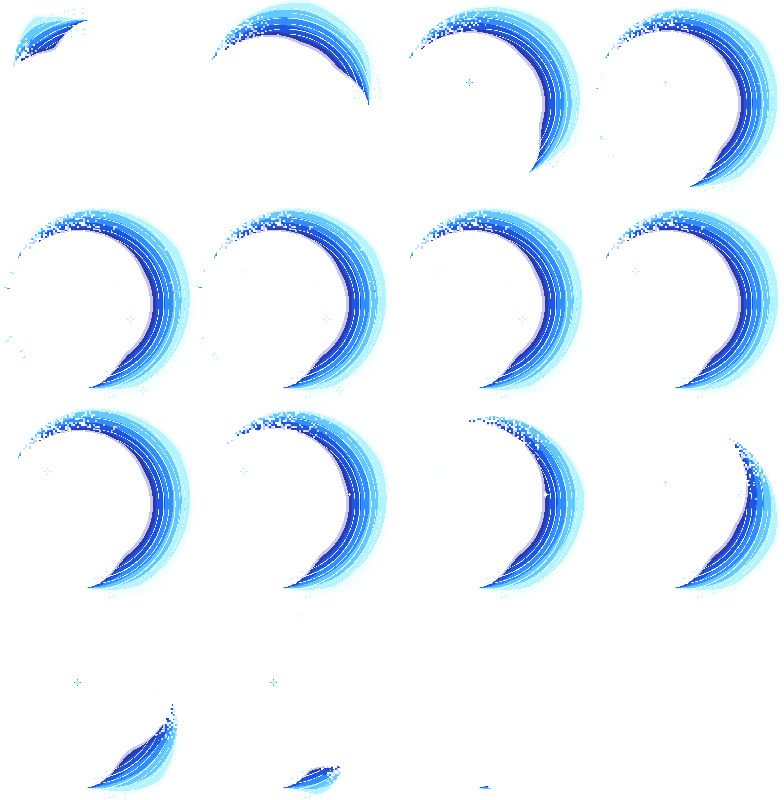
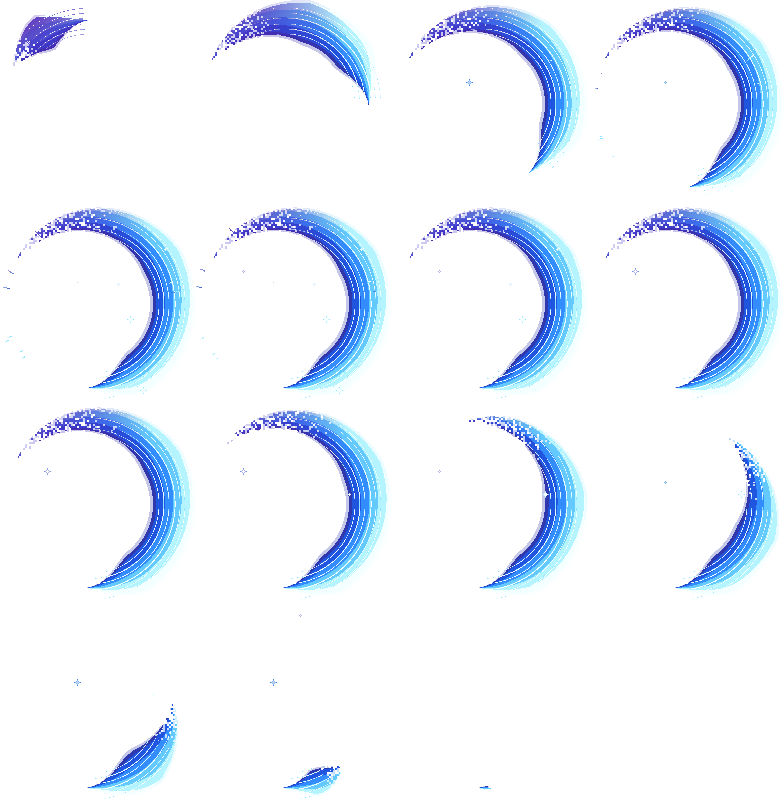
Đòn C: chỉ một vành PixelLab đuôi tím, bỏ lớp code chồng
Claude-Session: https://claude.ai/code/session_01MYwTvK6dULdzXHFPeBSgyd

diff --git a/game/index.html b/game/index.html
@@ -1880,7 +1880,7 @@ function comboFx(step,ang){/* VFX bản mẫu (PixelLab, gói tách lớp, tông
  /* Vệt chém: bộ Slashes (Frostwindz) đổi sang bảng màu game; khung lớn nhất của vệt trùng khung trúng */
  if(step===0)later(Math.max(0,at-0.02),()=>go(vok('wx_slash')?'wx_slash':'zs3',0.34,0,1.9,0.35,{dx:34*sc,dy:-62*sc,ang:tilt}),'h');
  else if(step===1)later(Math.max(0,at-0.16),()=>go('zs2',0.38,0,1.3,0,{ang:tilt}),'h');
- else{/* C = một cú quét → một elip → thu thế + mờ dần. Không còn slash zs1 độc lập; elip chỉ sống 0,5 s (tắt trước hết recovery 0,8 s), hai lớp cùng thời điểm và cùng thời gian */later(Math.max(0,at-0.4),()=>{go('k5c_behind',0.64,1,1.35,0.4,{al:0.85});go('k5c_front',0.64,0,1.35,0.4,{al:0.7})},'h');/* vành PixelLab dày (24/11): vệt chính phía trước, bản code ở dưới làm sợi mảnh + đuôi tím */later(Math.max(0,at-0.12),()=>{if(vok('k5c_pro'))go('k5c_pro',0.5,0,1.15,0.25,{dx:26*sc,dy:-48*sc,al:0.92})},'h')}}
+ else{/* C = một cú quét → một elip → thu thế + mờ dần. Không còn slash zs1 độc lập; elip chỉ sống 0,5 s (tắt trước hết recovery 0,8 s), hai lớp cùng thời điểm và cùng thời gian *//* vành PixelLab dày (24/11): vệt chính phía trước, bản code ở dưới làm sợi mảnh + đuôi tím */later(Math.max(0,at-0.12),()=>{if(vok('k5c_pro'))go('k5c_pro',0.56,0,1.25,0.3,{dx:22*sc,dy:-48*sc})},'h')}}
 function finishSwordCut(dt){
  const cut=P.swordCut;
  if(!cut)return;
